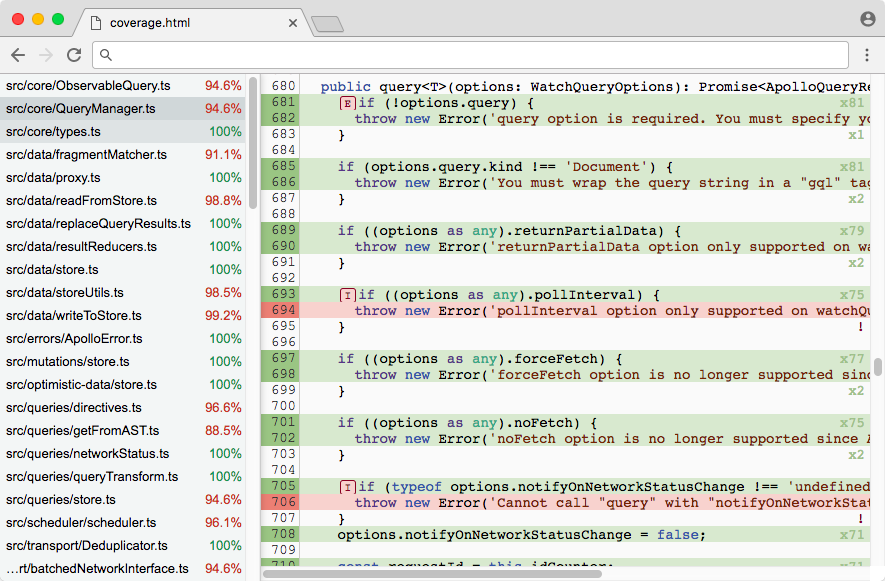
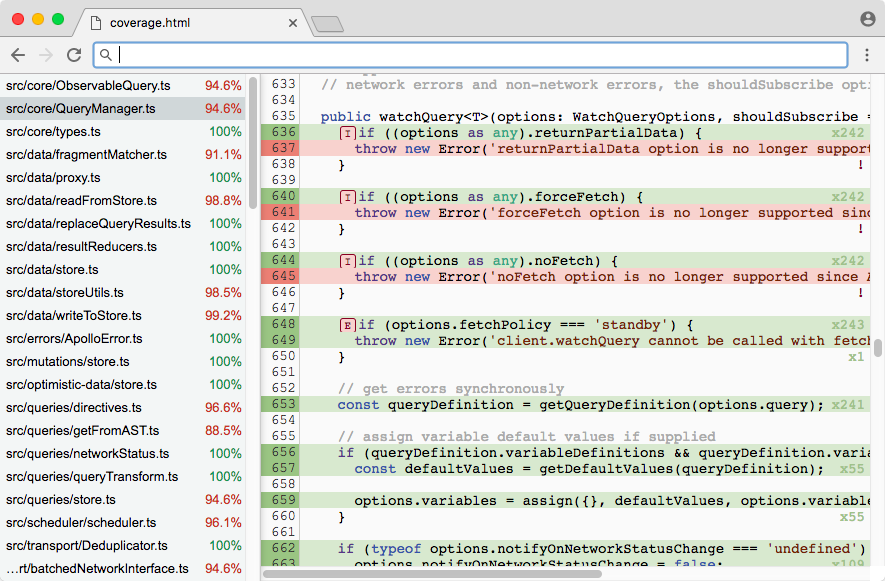
Added README back with new screenshot

diff --git a/README.md b/README.md
@@ -1,0 +1,35 @@
+
+# TSCover - code coverage for TypeScript
+
+TSCover is a Typescript compiler that produces instrumented javascript used to collect code coverage information. Code coverage is saved in the form of LCOV files, JSON files or as an HTML report.
+
+![screenshot](img/ss1.png "TSCover HTML report")
+
+### Features
+
+- Works as a drop-in replacement for `tsc`. All `tsc` options work as expected.
+- Instruments .ts files during compilation. Does not require .map files.
+- Reports coverage as lcov.info, json files or as an html report.
+- Supports statement, branch and file coverage.
+
+### Usage
+
+TSCover requires `typescript` library so first step is to make sure that typescript is installed globally. After that install `tscover` as the global library:
+
+	npm install -g typescript
+	npm install -g tscover
+
+You can run `tscover` the same way that you would run `tsc`, all tsc options will work as expected. Or you can use tsconfig.json to specify compiler options:
+
+	tscover program.ts
+	tscover -p project/tsconfig.json
+
+Run the program as you normally would and upon exit it will produce a `coverage` folder with lcov, json and html files in it.
+
+### Instrumented files
+
+Normally `tscover` produces compiled javascript files only. However if you would like to see instrumented typescript files too pass `--tscover-instrument` flag:
+
+	tscover --tscover-instrument -p project/tsconfig.json
+
+This will instruct the compiler to produce .ts.cover files that can be used for troubleshooting.
